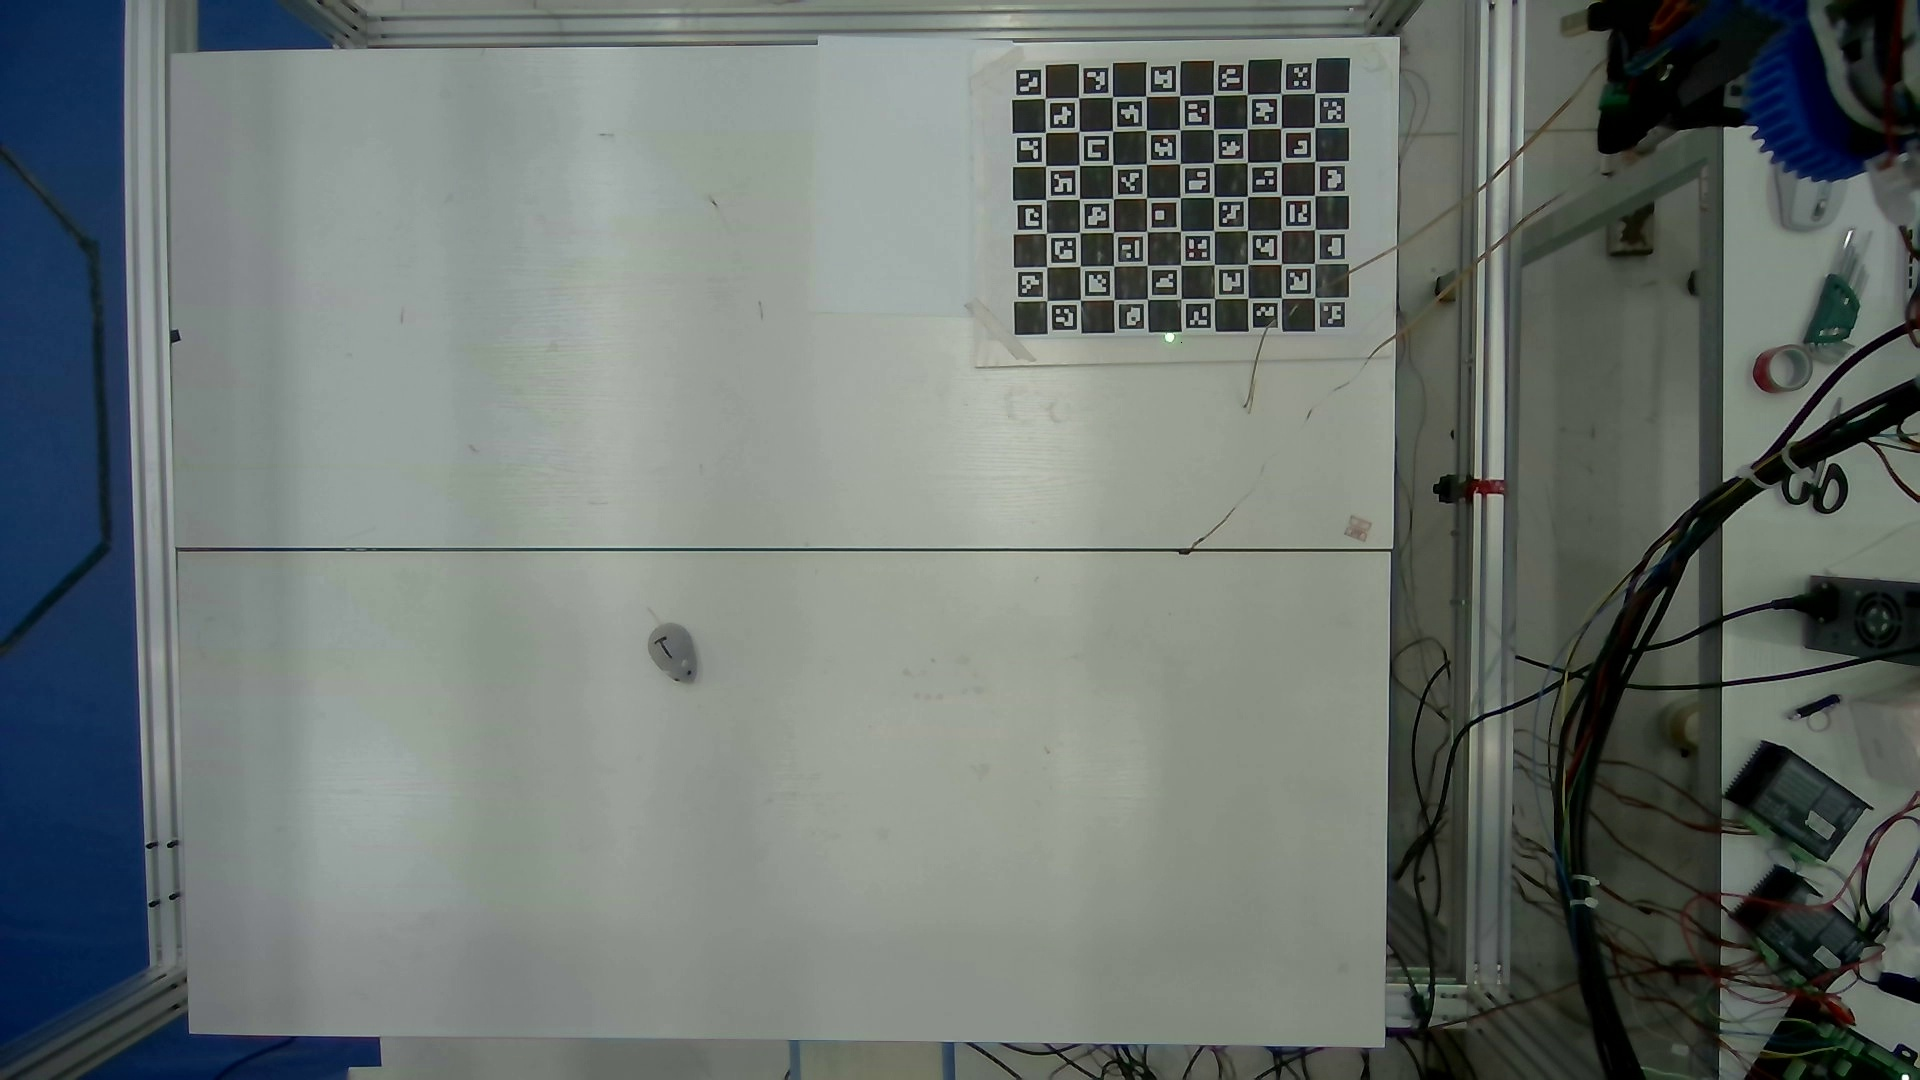
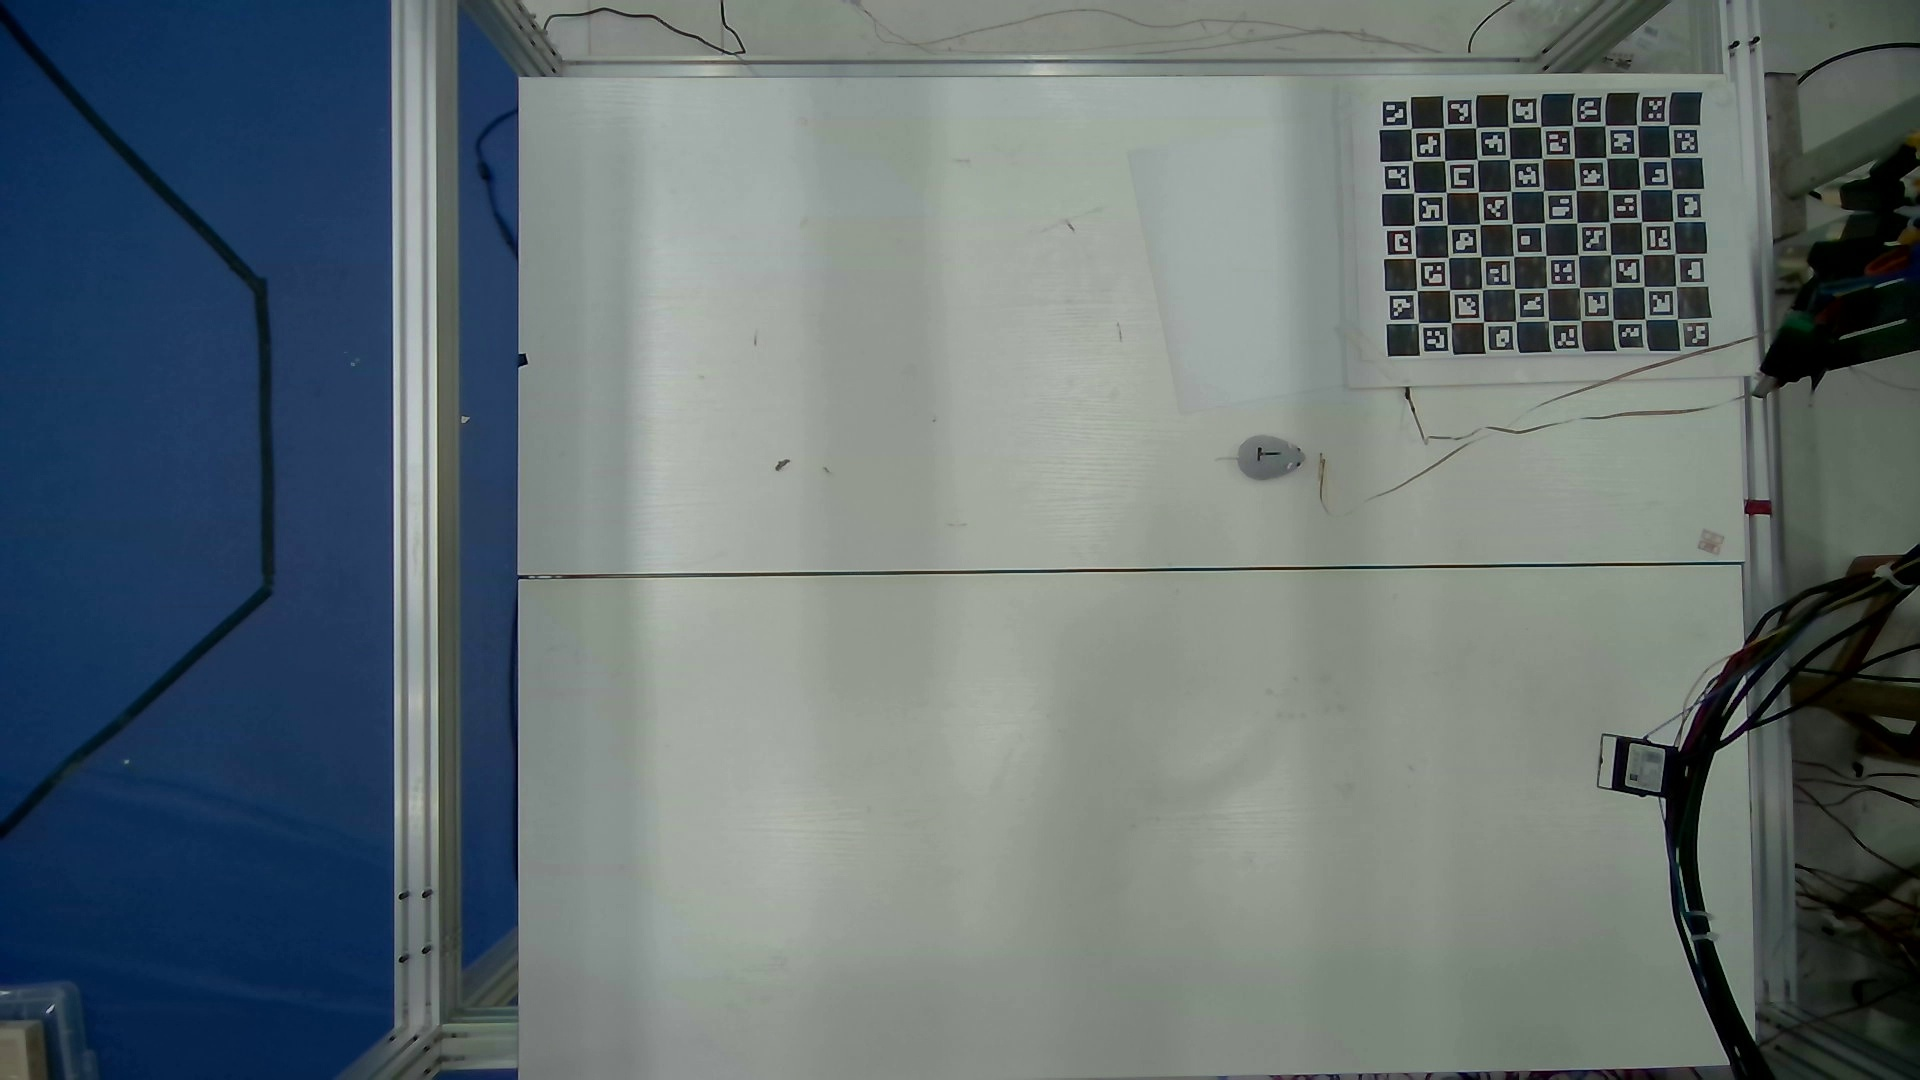
combine 123 and stop

diff --git a/YQTest/PyQtMiceModel_1113_stop.py b/YQTest/PyQtMiceModel_1113_stop.py
@@ -70,7 +70,7 @@ class MechanicalAxisController:
         a=self.dll.GA_InitLookAheadSingleEX(1,0,speedx,speedy,200,50,4000,4000,2,2,2,2,2,5,5,5,5,5,1,1,1,1,1)
         print('初始化前瞻，返回值:',a)
 
-        # a = self.dll.GA_CrdStart(1,0)
+        a = self.dll.GA_CrdStart(1,0)
         print('启动坐标系运动,返回值:',a)
 
 
@@ -99,6 +99,23 @@ class MechanicalAxisController:
 
     # 接收并执行 x 和 y 的插补运动
     def execute_motion(self, xValue, yValue):
+
+        # xy stop
+        axis = 2
+        lMask = (0x0001 << (axis - 1))  # 计算掩码值
+        lOption = 0  # 根据函数要求设置此参数
+        # 软件stop 
+        a = self.dll.GA_Stop(lMask, lOption)
+
+
+        axis = 1
+        lMask = (0x0001 << (axis - 1))  # 计算掩码值
+        a = self.dll.GA_Stop(lMask, lOption)
+
+        ############
+        ############
+
+
         print(f"执行插补运动: X={xValue}, Y={yValue}")
         a = self.dll.GA_LnXY(1, int(xValue), int(yValue), c_double(20.5), c_double(0.9), 0, 0, 2)
         # control the movement 
@@ -219,8 +236,8 @@ class RealTimeDetectionApp(QMainWindow):
 
         # self.moveDll = Move()
         # self.poseinit = [827, 314]
-        self.poseinit = [1169,  337]
-        self.poseinit2 = [1435,  577]
+        self.poseinit = [890,  434]
+        self.poseinit2 = [1259,  453]
         self.frameCount = 0
         #### camera index
 
@@ -234,8 +251,8 @@ class RealTimeDetectionApp(QMainWindow):
         self.distanceThreshold = 50
 
         # 初始化摄像头索引和状态
-        self.camera1_index = 2  # 第一个摄像头的索引
-        self.camera2_index = 1  # 第二个摄像头的索引
+        self.camera1_index = 1  # 第一个摄像头的索引
+        self.camera2_index = 2  # 第二个摄像头的索引
         self.active_camera = None
         self.capture = None
 
@@ -281,11 +298,12 @@ class RealTimeDetectionApp(QMainWindow):
         ])  # 你的相机内参矩阵
         self.mycalib.dist_coeffs = np.array([k1, k2, p1, p2, k3])  # 你的畸变系数
 
+        
         # refine
-        image_points = np.array([[1388, 356],
-                    [1379, 130],
-                    [1668, 126],
-                    [1680, 350]
+        image_points = np.array([[1031, 334],
+                    [1028, 99],
+                    [1331, 93],
+                    [1332, 330]
                     ] , dtype= np.float64)
         object_points = np.array([[0,0,0],
                        [250,0,0],
@@ -330,10 +348,10 @@ class RealTimeDetectionApp(QMainWindow):
         self.camera2calib.dist_coeffs = np.array([k1, k2, p1, p2, k3])  # 你的畸变系数
 
         # refine
-        image_points = np.array([[1031, 334],
-                    [1028, 99],
-                    [1331, 93],
-                    [1332, 330]
+        image_points = np.array([[1388, 356],
+                    [1379, 130],
+                    [1668, 126],
+                    [1680, 350]
                     ] , dtype= np.float64)
         object_points = np.array([[0,0,0],
                        [250,0,0],

diff --git a/YQTest/MoveTestUtils/JasonTestXYStop.py b/YQTest/MoveTestUtils/JasonTestXYStop.py
@@ -1,0 +1,106 @@
+from ctypes import *
+import ctypes
+#import numpy as np
+import struct 
+import time
+import math
+
+
+    
+dll = CDLL(r'E:\yq\code\MovingInterpolation2D\GAS.dll')
+print(dll)
+
+dll.GA_StartDebugLog(1)
+
+print('测试开始')
+a=dll.GA_OpenByIP(b'192.168.0.2',b'192.168.0.1',0,0)
+print('打开板卡GA_Open返回值:',a)
+
+
+a=dll.GA_StartLog()
+print('打开日志功能，平时不用可以关闭本段代码，返回值:',a)
+"产生的日志文件夹名字为 RunTimeLog 可以在电脑里面搜索该文件夹。通常在Pyhon安装路径"
+
+a=dll. GA_Reset()
+print('复位板卡GA_Reset返回值:',a)
+
+a=dll.GA_EncOff(1)
+print('关闭轴1编码器:',a)
+
+# a=dll.GA_ZeroPos(1,1)
+# print('清零轴1零位，返回值:',a)
+
+a=dll.GA_AxisOn(1)
+print('使能轴1返回值:',a)
+
+a=dll.GA_SetCrdPrmSingleEX(1,2,1,2,0,0,0,0,0,0,c_double(2000),c_double(5),0,1,0,0,0,0,0,0,0,0)
+print('建立2维坐标系，返回值:',a)
+dPrfPosx = c_double(0)
+dPrfPosy = c_double(0)
+speed = 5
+a=dll.GA_InitLookAheadSingleEX(1,0,speed,speed,speed,50,400,400,2,2,2,2,2,5,5,5,5,5,1,1,1,1,1)
+print('初始化前瞻，返回值:',a)
+
+a = dll.GA_CrdStart(1,0)
+print('启动坐标系运动,返回值:',a)
+
+# xValue = 0
+# yValue = 10000
+# a=dll.GA_LnXY(1,xValue,yValue,c_double(20.5),c_double(0.9),0,0,2)
+print('插入2维插补数据,X=50000脉冲，Y=50000脉冲,返回值:',a)
+a = dll.GA_GetPrfPos(1, byref(dPrfPosx),1,0)
+dValue = dPrfPosx
+print('获取轴1脉冲位置，返回值：',a,'获取值：',dValue)
+a = dll.GA_GetPrfPos(2, byref(dPrfPosy),1,0)
+dValue = dPrfPosy
+print('获取轴2脉冲位置，返回值：',a,'获取值：',dValue)
+def move(xValue,yValue):
+    
+
+    print(f"执行插补运动: X={xValue}, Y={yValue}")
+    a = dll.GA_LnXY(1, int(xValue), int(yValue), c_double(20.5), c_double(0.9), 0, 0, 2)
+    # control the movement 
+    a=dll.GA_CrdData(1,0,0)
+def stop():
+    a= dll.GA_CrdData(1,0,0)
+    axis = 2
+    lMask = (0x0001 << (axis - 1))  # 计算掩码值
+    lOption = 0  # 根据函数要求设置此参数
+    # 软件stop 
+    a = dll.GA_Stop(lMask, lOption)
+
+
+    axis = 1
+    lMask = (0x0001 << (axis - 1))  # 计算掩码值
+    a = dll.GA_Stop(lMask, lOption)
+move(10000,10000)
+time.sleep(2)
+stop()
+move(-10000,-10000)
+
+
+
+
+
+# # xValue = 0
+# # yValue = 0
+# # a=dll.GA_LnXY(1,xValue,yValue,c_double(20.5),c_double(0.9),0,0,2)
+
+# # print('插入2维插补数据,X=50000脉冲，Y=50000脉冲,返回值:',a)
+# # a = dll.GA_GetPrfPos(1, byref(dPrfPosx),1,0)
+# # dValue = dPrfPosx
+# # print('获取轴1脉冲位置，返回值：',a,'获取值：',dValue)
+# # a = dll.GA_GetPrfPos(2, byref(dPrfPosy),1,0)
+# # dValue = dPrfPosy
+# # print('获取轴2脉冲位置，返回值：',a,'获取值：',dValue)
+
+# # a=dll.GA_LnXY(1,0,0,c_double(20.5),c_double(0.9),0,0,2)
+# # print('插入2维插补数据,X=0脉冲，Y=0脉冲,返回值:',a)
+# a=dll.GA_CrdData(1,0,0)
+# print('将数据压入控制卡')
+# print('延时8秒钟')
+# time.sleep(8)
+
+
+a=dll.GA_Close()
+print('测试结束')

diff --git a/YQTest/MoveTestUtils/TestCalculateAngle.py b/YQTest/MoveTestUtils/TestCalculateAngle.py
@@ -1,0 +1,24 @@
+
+import numpy as np
+def calculate_rotation_angle(v1, v2):
+    # 将二维数组转换为一维数组，避免形状错误
+    v1 = np.array(v1).flatten()  # 将 v1 变为 1D 数组
+    v2 = np.array(v2).flatten()  # 将 v2 变为 1D 数组
+    # 计算点积
+    dot_product = np.dot(v1, v2)
+
+    # 计算叉积的z分量，适用于二维向量 (A_x * B_y - A_y * B_x)
+    cross_product_z = v1[0] * v2[1] - v1[1] * v2[0]
+
+    # 计算旋转角度，atan2 会返回弧度，考虑点积和叉积的符号
+    angle_radians = np.arctan2(cross_product_z, dot_product)
+
+    # 将弧度转换为角度
+    angle_degrees = np.degrees(angle_radians)
+
+    return angle_degrees
+
+v1 = [0,1]
+v2 = [0,-1]
+angle_degrees = calculate_rotation_angle(v1,v2)
+print(f"angle_degrees is {angle_degrees}")

diff --git a/YQTest/GetPointGUI.py b/YQTest/GetPointGUI.py
@@ -5,7 +5,7 @@ import numpy as np
 import cv2
 
 # 打开视频文件
-video_path = r'D:\Backup\Documents\S-EYE Files\Images\20241027-215330-844.mp4'  # 替换为你的视频文件路径
+video_path = r'D:\Backup\Documents\S-EYE Files\Images\20241113-181542-668.mp4'  # 替换为你的视频文件路径
 cap = cv2.VideoCapture(video_path)
 
 if not cap.isOpened():
@@ -24,5 +24,5 @@ if ret:
     cv2.imshow('Extracted Frame', frame)
     
     # 保存该帧为图像
-    save_path = 'extracted_frame2.jpg'
+    save_path = 'extracted_frame3.jpg'
     cv2.imwrite(save_path, frame)
